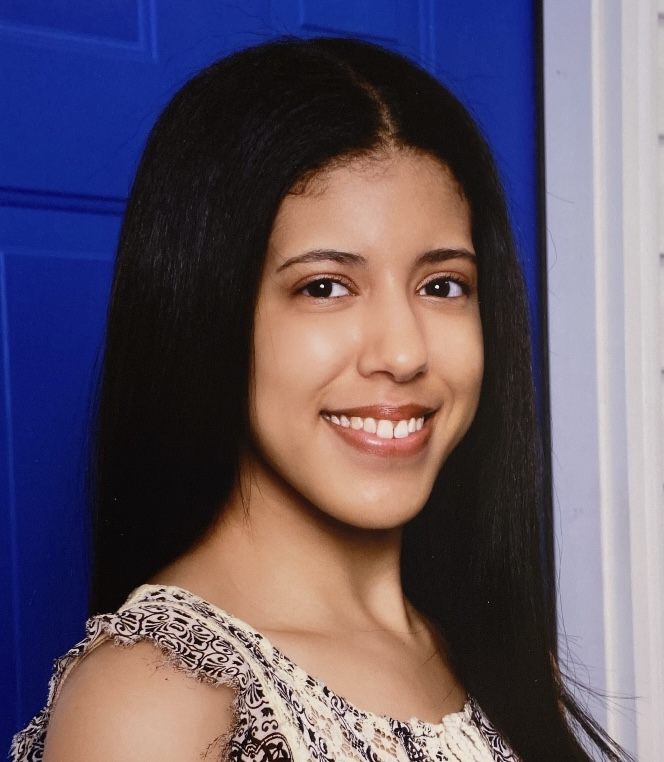
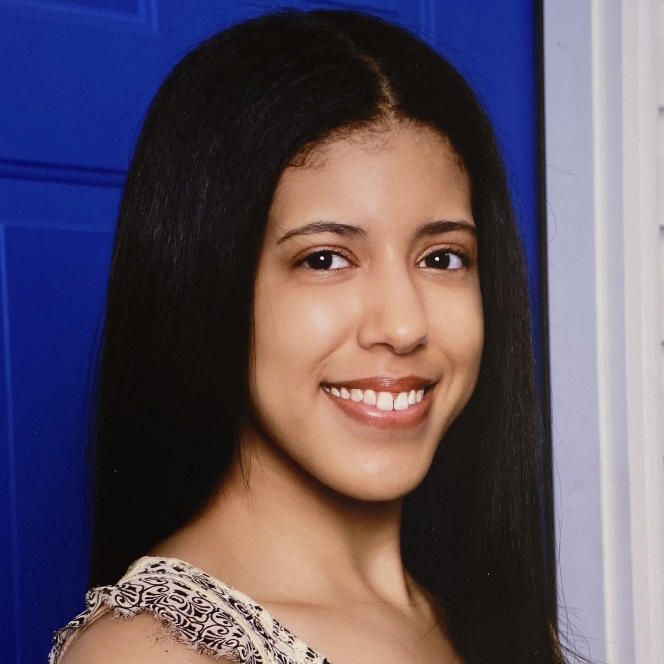
team photo updates

diff --git a/index.html b/index.html
@@ -429,7 +429,7 @@
 		    			<h5>Illustrator</h5>
 		    		</div>
 
-		    		<div class="teamMember col-xs-6 col-sm-4 col-md-3 col-6">    <img class="team-photo" src="images/blank-avatar.png">
+		    		<div class="teamMember col-xs-6 col-sm-4 col-md-3 col-6">    <img class="team-photo" src="images/cassandra.jpg">
 		    			<h4>Cassandra Swilley</h4>
 		    			<h5>Writer</h5>
 		    		</div>
@@ -444,7 +444,7 @@
 		    			<h5>Writer</h5>
 		    		</div>
 
-		    		<div class="teamMember col-xs-6 col-sm-4 col-md-3 col-6">    <img class="team-photo" src="images/blank-avatar.png">
+		    		<div class="teamMember col-xs-6 col-sm-4 col-md-3 col-6">    <img class="team-photo" src="images/gwyneth.jpg">
 		    			<h4>Gwyneth Johnson</h4>
 		    			<h5>Writer</h5>
 		    		</div>
@@ -454,7 +454,7 @@
 		    			<h5>Writer</h5>
 		    		</div>
 
-		    		<div class="teamMember col-xs-6 col-sm-4 col-md-3 col-6">    <img class="team-photo" src="images/blank-avatar.png">
+		    		<div class="teamMember col-xs-6 col-sm-4 col-md-3 col-6">    <img class="team-photo" src="images/yoland.jpg">
 		    			<h4>Yoland Victor</h4>
 		    			<h5>Writer</h5>
 		    		</div>
